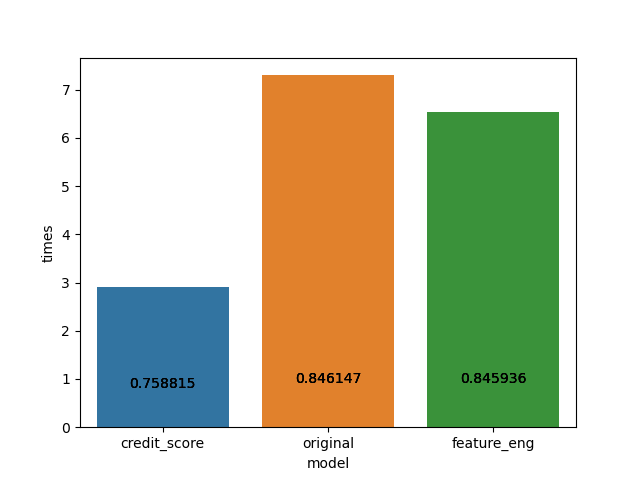
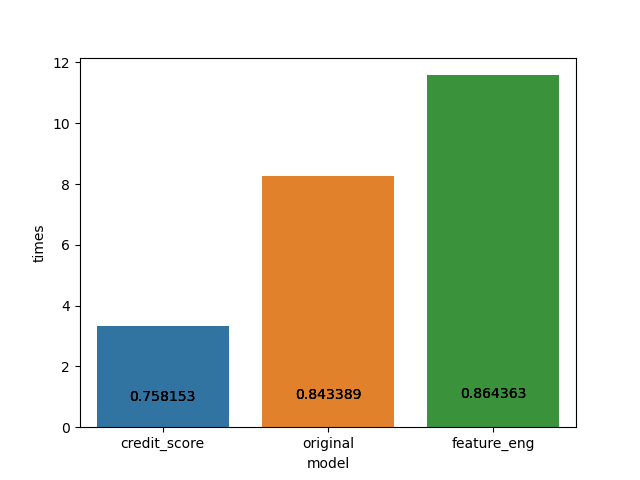
changed reducer to pull .pkl files IF p_true is False

diff --git a/src/risknet/proc/reducer.py b/src/risknet/proc/reducer.py
@@ -17,7 +17,7 @@ input:
 - fm_root: str: a location where data is held
 - i: Tuple(str, str, str): holds the file names for [(fm_dataset, default_label.pkl, default_progress.pkl)]
 '''
-def reduce(fm_root, i):
+def reduce(fm_root, i, p_true):
     origination_cols: List[str] = ["credit_score", "first_payment_date", "first_time_homebuyer", "maturity_date",
                                 "metropolitan_division", "mortgage_insurance_percent", "number_of_units",
                                 "occupancy_status", "orig_combined_loan_to_value", "dti_ratio",
@@ -29,15 +29,23 @@ def reduce(fm_root, i):
 
     drop_cols: List[str] = ['maturity_date', 'metropolitan_division', 'original_interest_rate', 'property_state',
                             'postal_code', 'mortgage_insurance_percent', 'original_loan_term']
+    
+    if p_true:
+        temp = pd.read_parquet(fm_root + 'org.parquet')
+        temp.columns = origination_cols
+        temp = temp.drop(columns = "row_hash")
 
-    temp = pd.read_parquet(fm_root + 'org.parquet')
-    temp.columns = origination_cols
-    temp = temp.drop(columns = "row_hash")
-
-    df = pd.concat([Reducer.simple_ts_split(temp.merge(
-            pd.read_pickle(fm_root + 'dev_labels.parquet'), on="loan_sequence_number",
+        df = pd.concat([Reducer.simple_ts_split(temp.merge(
+                pd.read_pickle(fm_root + 'dev_labels.parquet'), on="loan_sequence_number",
+                how="inner").merge(
+                pd.read_pickle(fm_root + 'dev_reg_labels.parquet'), on="loan_sequence_number",
+                how="inner").drop(columns=drop_cols), sort_key='first_payment_date', split_ratio=[0.8, 0.1, 0.1])])
+    else:
+        df = pd.concat([Reducer.simple_ts_split(pd.read_csv(fm_root + 'historical_data_2009Q1.txt', sep='|', index_col=False,
+                                                            names=origination_cols, nrows=1_000_000).merge(
+            pd.read_pickle(fm_root + 'dev_labels.pkl'), on="loan_sequence_number",
             how="inner").merge(
-            pd.read_pickle(fm_root + 'dev_reg_labels.parquet'), on="loan_sequence_number",
+            pd.read_pickle(fm_root + 'dev_reg_labels.pkl'), on="loan_sequence_number",
             how="inner").drop(columns=drop_cols), sort_key='first_payment_date', split_ratio=[0.8, 0.1, 0.1])])
     return df
 

diff --git a/src/risknet/proc/label_prep.py b/src/risknet/proc/label_prep.py
@@ -57,7 +57,7 @@ def label_proc(fm_root, label_sets, parquet=True):
                                         "zero_balance_code", "loan_age", "remaining_months_to_maturity"]]
         else:
             performance_df: DataFrame = pd.read_csv(fm_root + i[0], sep='|', index_col=False,
-                                                 names=performance_cols).loc[:,
+                                                 names=performance_cols, nrows=10_000_000).loc[:,
                                          ["loan_sequence_number", "monthly_reporting_period",
                                          "current_loan_delinquency_status",
                                          "zero_balance_code", "loan_age", "remaining_months_to_maturity"]]

diff --git a/src/risknet/run/pipeline.py b/src/risknet/run/pipeline.py
@@ -67,7 +67,7 @@ def pipeline(fe_enabled=True, baseline=False, p_true=True):
     label_prep.label_proc(fm_root, data, p_true)
 
     #Step 2: Reducer: Returns df of combined data to encode
-    df = reducer.reduce(fm_root, data[0])
+    df = reducer.reduce(fm_root, data[0], p_true)
     print(df.shape[0])
     #As of right now, we are only pulling 2009 data. So we only need data[0].
 
